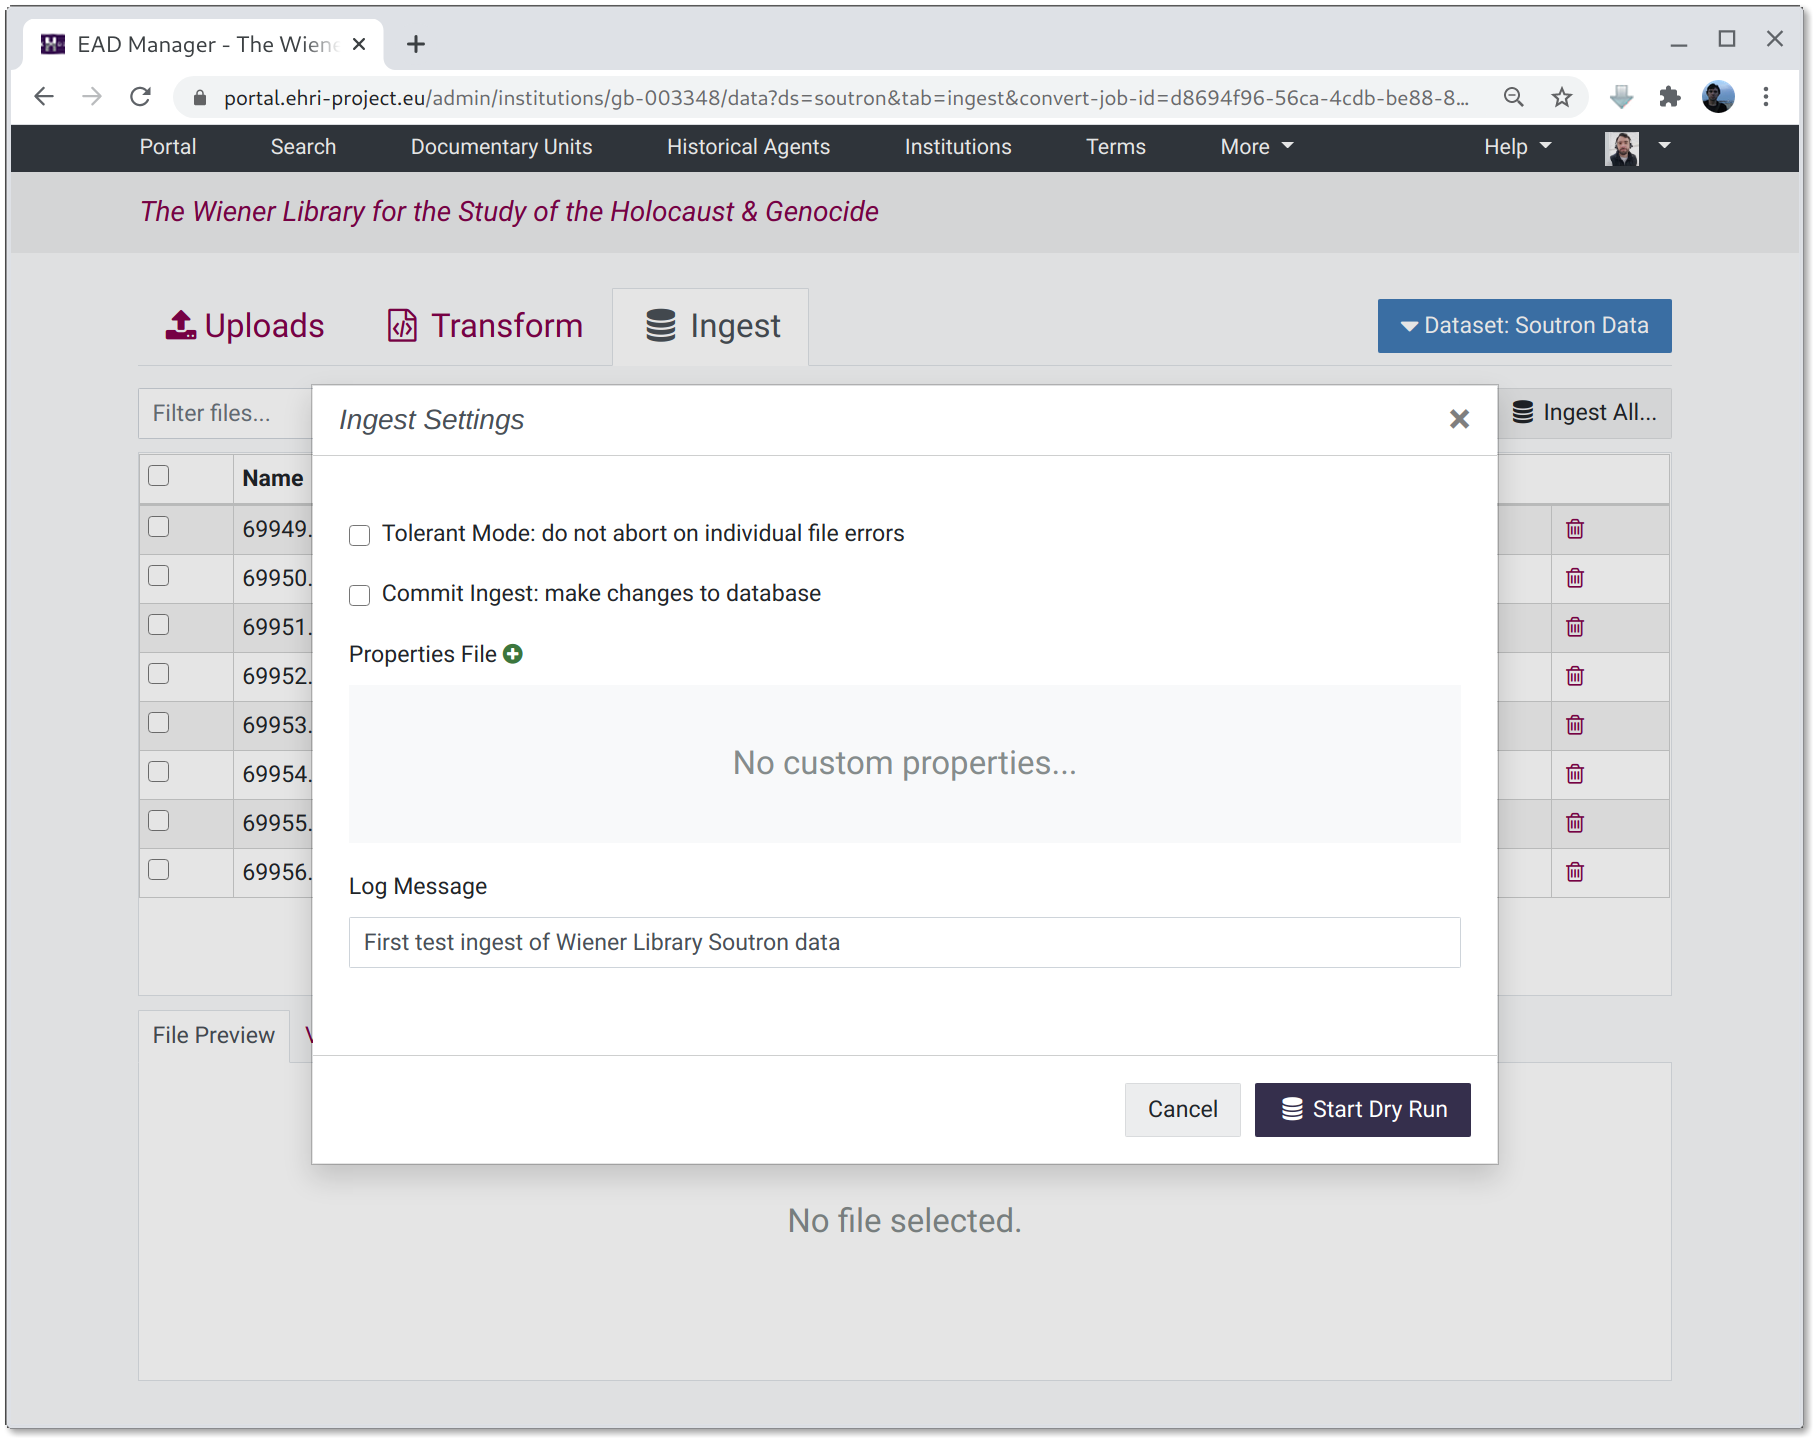
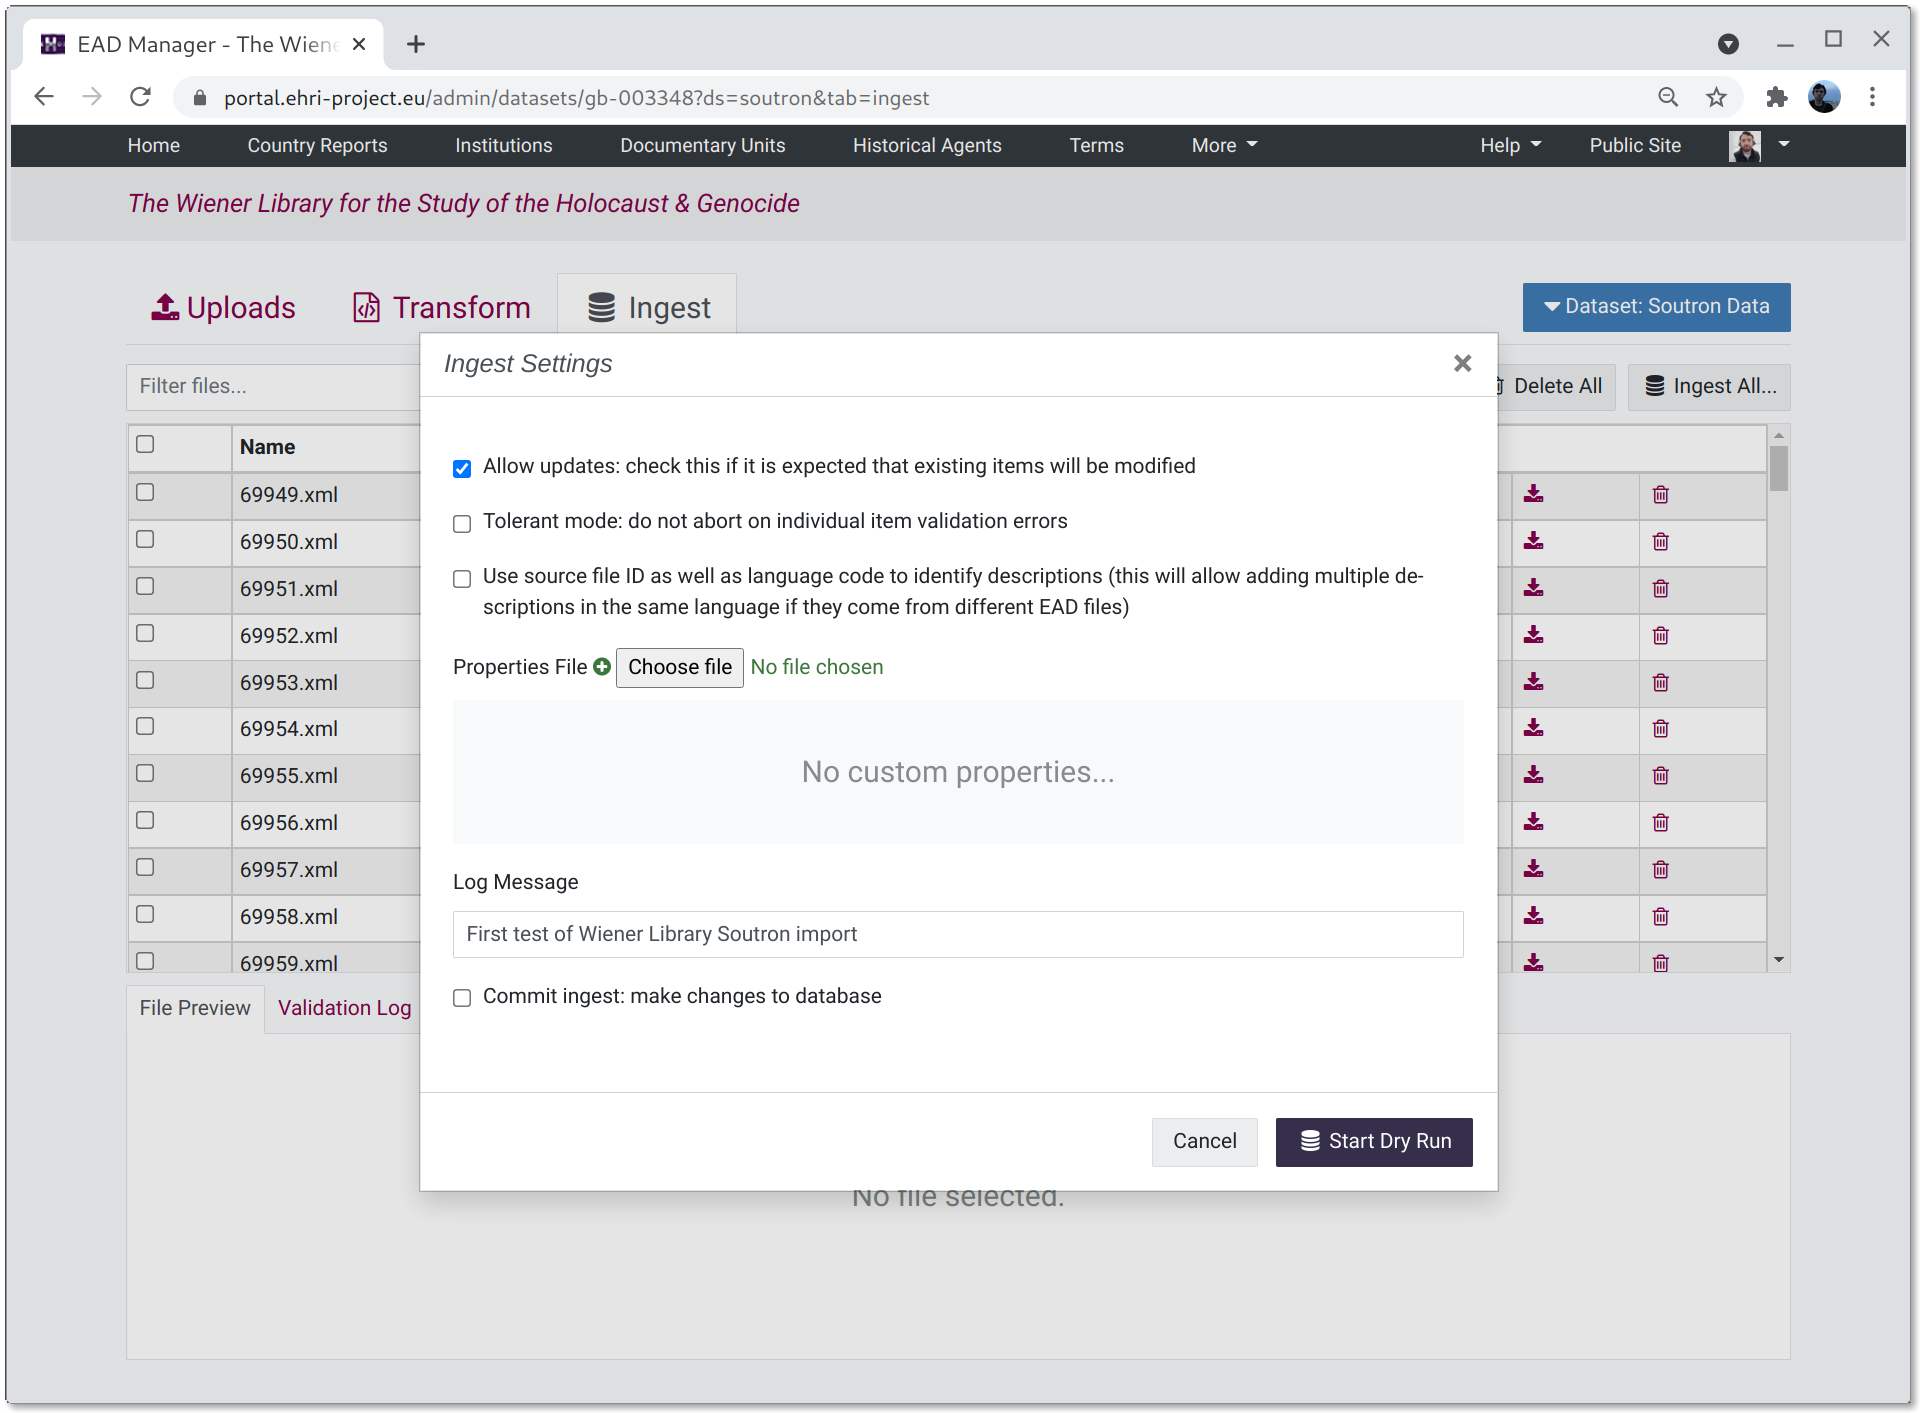
Update docs about EAD manager ingest modal options

Changed region(s): [[0.0618, 0.1868, 0.9575, 0.8719], [0.0, 0.0, 1.0, 0.1557], [0.4015, 0.5294, 0.5869, 0.5605]]

diff --git a/docs/administration/institution-data.rst b/docs/administration/institution-data.rst
@@ -259,10 +259,17 @@ file stages. Here, once again, files can be previewed, validated, deleted or dow
 Clicking the "Ingest Files..." button will open the ingest parameters window to import data into the portal.
 These parameters currently consist of:
 
+* Allow updates: check this option if you expect the ingested EAD to modify existing database items. If left unchecked
+  the import will report an error if an item is updated.
 * Tolerant: allows individual files in a batch to have validation errors without the whole batch failing.
-* Commit: actually commits the changes to the database. If left unchecked (the default) the ingest is effectively a
-  dry-run.
+* Use source file ID as well as language code to identify descriptions: if checked an EAD will only update an existing
+  description if *both* the language and source file ID (derived from the EAD ID) match. This
+  provides the ability to import multiple descriptions in the same language, providing the source file ID differs. The
+  default behaviour is to update existing descriptions that match the language of the files being ingested and ignore the
+  source file ID.
 * Properties File: this allows uploading a properties file which can control how EAD fields map to portal internal
   database fields. **This should only be used for compatibility with legacy data.**
 * Log message: a log message to be associated with the ingest operation.
+* Commit: actually commits the changes to the database. If left unchecked (the default) the ingest is effectively a
+  dry-run.
 
